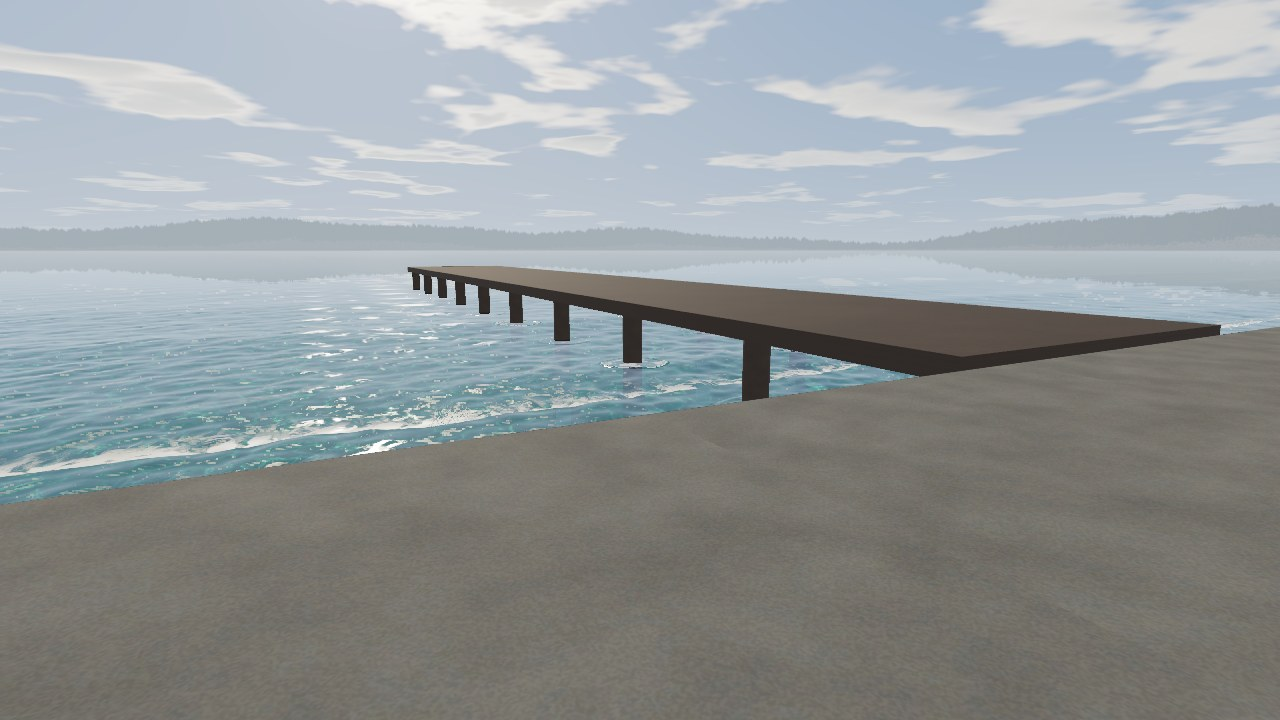
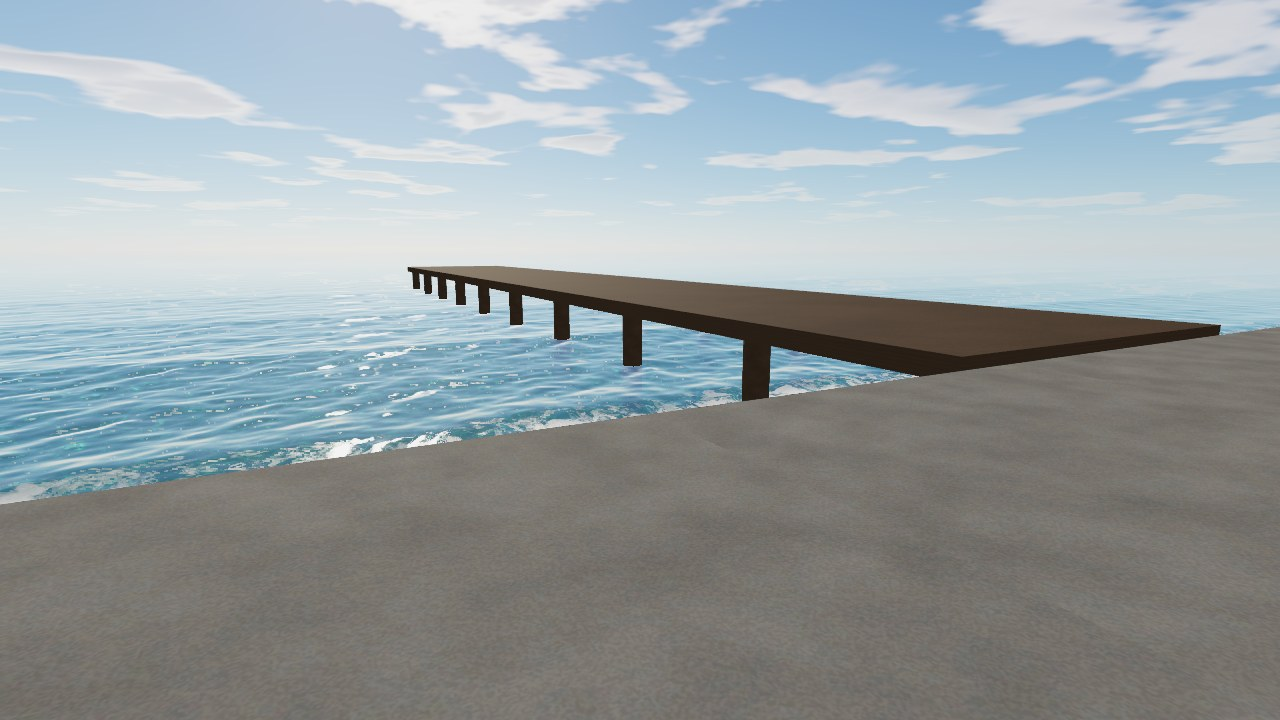
Open sea horizon, a clear sun, a quiet moon; doc images retaken (0.15.22)
- Distant land: the sky material's Distant land (_LandCover, 0 open sea all
  round .. 1 all round; 0.5 by default) is the share of the horizon it takes,
  round the side away from the sea (_SeaDir, written by the coast bake from the
  swell's direction; +Z without a coast), sloping to the sea over 20 degrees at
  its ends. Copied to the water and the seabed like the clouds. Pine green from
  ridge to water (the pale rock band at its foot read as a second texture).
- The sun's analytic glare core kept well under the disc, so its edge shows; none
  round the moon (it only gives back sunlight; the moonlit sky's glow is the
  table's).
- The moon's path on the water eases toward its cap instead of flattening at it.
- Post-processing profile default: bloom 0.15 over a threshold of 2 (was 0.4
  over 1.1): only what is really bright glows.
- Documentation images retaken with the sky of the day (16:30), the shaders'
  tone mapping and the open horizon.

Changed region(s): [[0.0, 0.275, 1.0, 0.7028], [0.4062, 0.0, 1.0, 0.1528], [0.875, 0.0, 0.9375, 0.0306]]

diff --git a/Editor/ClearwaterCoastBake.cs b/Editor/ClearwaterCoastBake.cs
@@ -127,6 +127,14 @@ public static class ClearwaterCoastBake
             m.SetVector("_UserMean", user != null ? user.mean : new Vector4(0.2f, 0.2f, 0.2f, 1));
             EditorUtility.SetDirty(m);
         }
+        // which way the sea is, for the distant land round the other side (the sky and what reflects it)
+        Vector3 seaward = coast.SwellFrom();
+        foreach (var m in new[] { ctl.skyMaterial, ctl.waterMaterial, ctl.seabedMaterial, ctl.userBeachMaterial })
+        {
+            if (m == null || !m.HasProperty("_SeaDir")) continue;
+            m.SetVector("_SeaDir", new Vector4(seaward.x, seaward.z, 0, 1));
+            EditorUtility.SetDirty(m);
+        }
         floorBake.SetTexture("_RockTex", ctl.waterMaterial.GetTexture("_RockTex"));
         floorBake.SetVector("_RockArea", ctl.waterMaterial.GetVector("_RockArea"));
 

diff --git a/Editor/ClearwaterSkyGUI.cs b/Editor/ClearwaterSkyGUI.cs
@@ -1,11 +1,11 @@
 using UnityEditor;
 using UnityEngine;
 
-/// <summary>Inspector for the Clearwater sky material: its clouds are copied straight to the water and the seabed
-/// (they reflect and refract the same sky), so what you set shows everywhere at once.</summary>
+/// <summary>Inspector for the Clearwater sky material: its clouds and its distant land are copied straight to the water
+/// and the seabed (they reflect and refract the same sky), so what you set shows everywhere at once.</summary>
 public class ClearwaterSkyGUI : ShaderGUI
 {
-    static readonly string[] Props = { "_CloudCover", "_CloudSize", "_CloudSpeed", "_CloudDir" };
+    static readonly string[] Props = { "_CloudCover", "_CloudSize", "_CloudSpeed", "_CloudDir", "_LandCover" };
 
     public override void OnGUI(MaterialEditor editor, MaterialProperty[] props)
     {

diff --git a/Editor/ClearwaterToneMapping.cs b/Editor/ClearwaterToneMapping.cs
@@ -21,8 +21,8 @@ public static class ClearwaterToneMapping
     const string VolumeName = "Clearwater Post-processing";
     const string LayerName = "PostProcessing";
 
-    internal const float BloomIntensity = 0.4f;
-    internal const float BloomThreshold = 1.1f;
+    internal const float BloomIntensity = 0.15f; // (a faint glow only round what is really bright: the sun, its glints)
+    internal const float BloomThreshold = 2.0f;
 
     /// <summary>The Clearwater materials that tone map (their "Tone map in shader" toggle).</summary>
     static IEnumerable<Material> Materials()

diff --git a/Runtime/Udon/ClearwaterController.cs b/Runtime/Udon/ClearwaterController.cs
@@ -139,6 +139,8 @@ public class ClearwaterController : UdonSharpBehaviour
         m.SetFloat("_CloudSize", skyMaterial.GetFloat("_CloudSize"));
         m.SetFloat("_CloudSpeed", skyMaterial.GetFloat("_CloudSpeed"));
         m.SetFloat("_CloudDir", skyMaterial.GetFloat("_CloudDir"));
+        m.SetFloat("_LandCover", skyMaterial.GetFloat("_LandCover"));
+        m.SetVector("_SeaDir", skyMaterial.GetVector("_SeaDir"));
     }
 
     public override void OnPlayerJoined(VRCPlayerApi player) { RefreshPlayers(); }

diff --git a/docs/technical.md b/docs/technical.md
@@ -2,7 +2,7 @@
 
 この文書は、Clearwater Coast が海をどう描いているかを、コードに手を入れたい人や、負荷と見た目の理由を知りたい人に向けて説明します。使い方は [README](../README.md) にあります。ここでは、同じ機能を「中で何が起きているか」の側から書きます。Unity のシェーダーと、VRChat のワールド制作の基本は知っている前提です。
 
-最初の 3 章（全体像・波・水底）を読めば、残りの章はどこから読んでも追えます。4 章以降は、必要になったときに引く参照用です。パッケージに手を入れるときは、13 章のテストも見てください。用語は [CONTEXT.md](../CONTEXT.md)、後から変えにくい決定は [docs/adr](adr/) にまとめてあります。数値はパッケージ 0.15.21 時点のものです。
+最初の 3 章（全体像・波・水底）を読めば、残りの章はどこから読んでも追えます。4 章以降は、必要になったときに引く参照用です。パッケージに手を入れるときは、13 章のテストも見てください。用語は [CONTEXT.md](../CONTEXT.md)、後から変えにくい決定は [docs/adr](adr/) にまとめてあります。数値はパッケージ 0.15.22 時点のものです。
 
 ## 1. 全体像：焼き込んだ少しのテクスチャと、毎フレームの GPU 計算で海を描く
 
@@ -188,7 +188,7 @@ Post Processing Stack v2 を使うときは、`Tools > Clearwater > Tone Mapping
 
 **大気のモデル**は、半径 6360 km の地球に厚さ 100 km の空気を載せたものです。空気の分子（Rayleigh 散乱。高さ 8 km ごとに 1/e に薄まる）、細かい粒子（Mie 散乱。1.2 km で薄まり、前へ強く散らす g = 0.8）、オゾン（高さ 25 km を中心に赤と緑を吸収）を置き、光が 2 回以上散る分は Hillaire（2020）の近似で足します。地面の反射率は 0.1（ほとんど海）、目の高さは 20 m、計算するのは RGB の 3 色です。値の出どころは Bruneton（2017）と Hillaire（2020）の地球の大気です。
 
-**表の形**は、3D テクスチャ 64（太陽との方位差）× 64（見る方向の高さ）× 48（太陽の高さ）です。太陽の高さ −20°〜90° は asinh で割り付け、空の色が速く変わる地平線の前後を細かくしています。見る方向の高さと方位差も平方根で割り付け、地平線と太陽の側を細かくしています。夕暮れの空は昼の 1 億分の 1 まで暗くなるので、太陽の高さごとに空の平均の明るさで割って半精度に収め、割った値は Udon 側の表に残します。太陽から 3° 以内の鋭いまぶしさは表の細かさでは描けないので、表からは外し、シェーダーで式として足します（月も同じです）。
+**表の形**は、3D テクスチャ 64（太陽との方位差）× 64（見る方向の高さ）× 48（太陽の高さ）です。太陽の高さ −20°〜90° は asinh で割り付け、空の色が速く変わる地平線の前後を細かくしています。見る方向の高さと方位差も平方根で割り付け、地平線と太陽の側を細かくしています。夕暮れの空は昼の 1 億分の 1 まで暗くなるので、太陽の高さごとに空の平均の明るさで割って半精度に収め、割った値は Udon 側の表に残します。太陽から 3° 以内の鋭いまぶしさは表の細かさでは描けないので、表からは外し、シェーダーで式として足します。その明るさは円盤よりずっと低く抑え、円盤の輪郭が見えるようにします。月は太陽光を返すだけで、芯の強いまぶしさは目立たないので足しません。
 
 Udon 側の表は 0.5° ごとの 221 行で、太陽に向いた面に届く直射光、水平な地面に届く空全体の光（と空の平均の明るさ）、地平線の少し上（5°）の全周の明るさ、の 3 つです。Udon は 3D テクスチャを読めないので、光の量の計算にはこちらを使います。
 
@@ -196,7 +196,7 @@ Udon 側の表は 0.5° ごとの 221 行で、太陽に向いた面に届く直
 
 **目の順応**。光の量は、昼から月夜までに 100 万分の 1 ほどになります。景色と空の明るさを半分ずつ足した値から目の慣れ具合を決め、すべての光に掛けます。見える明るさは、基準の近くでは光の量の 0.55 乗で変わり、暗くなるほど変わり方が緩くなります。月夜（昼の 100 万分の 1）が `Night brightness`（初期値 0.05）の明るさに見えるように、この曲がり方を決めています。暗くなると、光の色を明るさはそのまま青へ寄せ、トーンマッピングでも彩度を落とします。暗い所の目は色を見分けにくく、青に敏感になるためです。
 
-**月と星**。月は満月として、太陽のちょうど反対側に置きます。月の光と月に照らされた空は、太陽の表を 250 万分の 1 にして引きます。月面の土は赤い光ほどよく返すので、月の光は太陽光より少し黄色く（4100 K ほど）します。月の円盤は、その光を円盤の広さ（6.4 × 10⁻⁵ sr）で割った明るさ（昼の空の平均ほど）を、空と同じ目の順応で見せ、画面で太陽よりずっと暗く見えるよう（表示の明るさで最大 0.45 ほど）、0.6 の手前でゆるく抑えます。水面に映る月の光の道も、円盤を映したものなので、円盤の明るさに反射率を掛けた値を超えないようにします。円盤そのものは明るく色が分かるので、夜の目の青みは掛けません（トーンマッピングの夜の色褪せも、暗い画素にだけ掛けます）。星は、天の北極の周りを時刻とともに回る天球に置きます。天球を立方体の 6 面 × 96² のます目に分け、8 ますに 1 つ（全天で約 7,000 個）の星を、1 等級暗くなるごとに数が 3 倍になる分布で置きます。星は画面の 1 画素ほどの大きさで描くので、解像度が変わっても大きさは変わりません。太陽・月・星は、水平線を一周する遠景の山（1.5〜4°）の後ろに隠れます。太陽や月が稜線に隠れている間は、水面のきらめきや光の模様に使う直射光も消えます（アバターを照らす Unity のライトは消えません）。
+**月と星**。月は満月として、太陽のちょうど反対側に置きます。月の光と月に照らされた空は、太陽の表を 250 万分の 1 にして引きます。月面の土は赤い光ほどよく返すので、月の光は太陽光より少し黄色く（4100 K ほど）します。月の円盤は、その光を円盤の広さ（6.4 × 10⁻⁵ sr）で割った明るさ（昼の空の平均ほど）を、空と同じ目の順応で見せ、画面で太陽よりずっと暗く見えるよう（表示の明るさで最大 0.45 ほど）、0.6 の手前でゆるく抑えます。水面に映る月の光の道も、円盤を映したものなので、円盤の明るさに反射率を掛けた値を超えないようにします。円盤そのものは明るく色が分かるので、夜の目の青みは掛けません（トーンマッピングの夜の色褪せも、暗い画素にだけ掛けます）。星は、天の北極の周りを時刻とともに回る天球に置きます。天球を立方体の 6 面 × 96² のます目に分け、8 ますに 1 つ（全天で約 7,000 個）の星を、1 等級暗くなるごとに数が 3 倍になる分布で置きます。星は画面の 1 画素ほどの大きさで描くので、解像度が変わっても大きさは変わりません。太陽・月・星は、遠景の山（1.5〜4°）の後ろに隠れます。この山は、空のマテリアルの `Distant land`（`_LandCover`）の割合だけ、海と反対側を中心に水平線を占め、端の 20° で海面まで下がります。海の向き（`_SeaDir`）は Coast の Bake が、うねりの来る向きから書き込みます。太陽や月が稜線に隠れている間は、水面のきらめきや光の模様に使う直射光も消えます（アバターを照らす Unity のライトは消えません）。
 
 **雲と霞**。雲は数 km 上にあり、地上より地平線が低く見えるので、日没の後もしばらく日が当たります。そこで雲には、太陽を 2.5° 高くしたときの直射光を当てます。遠くの水と陸をかすませる霞は、遠いほどその方向の地平線の色に、近いほど地平線の全周の平均の色にします。夕暮れの残照は、はるか遠くの高い空気が光っているもので、目の前の空気の色ではないためです。
 
